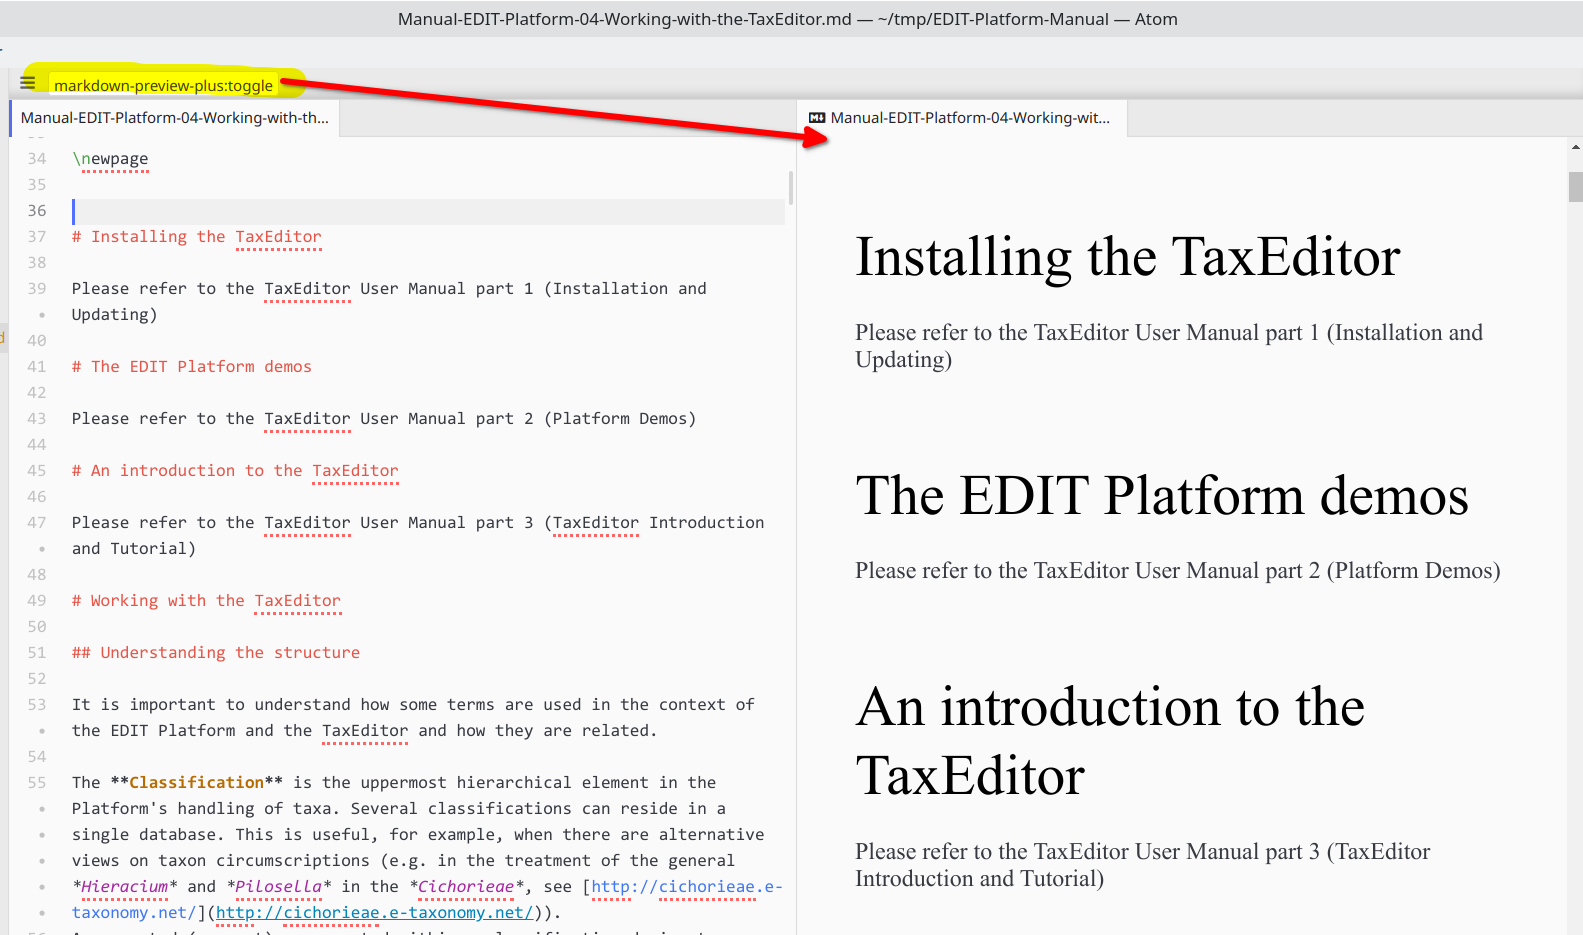
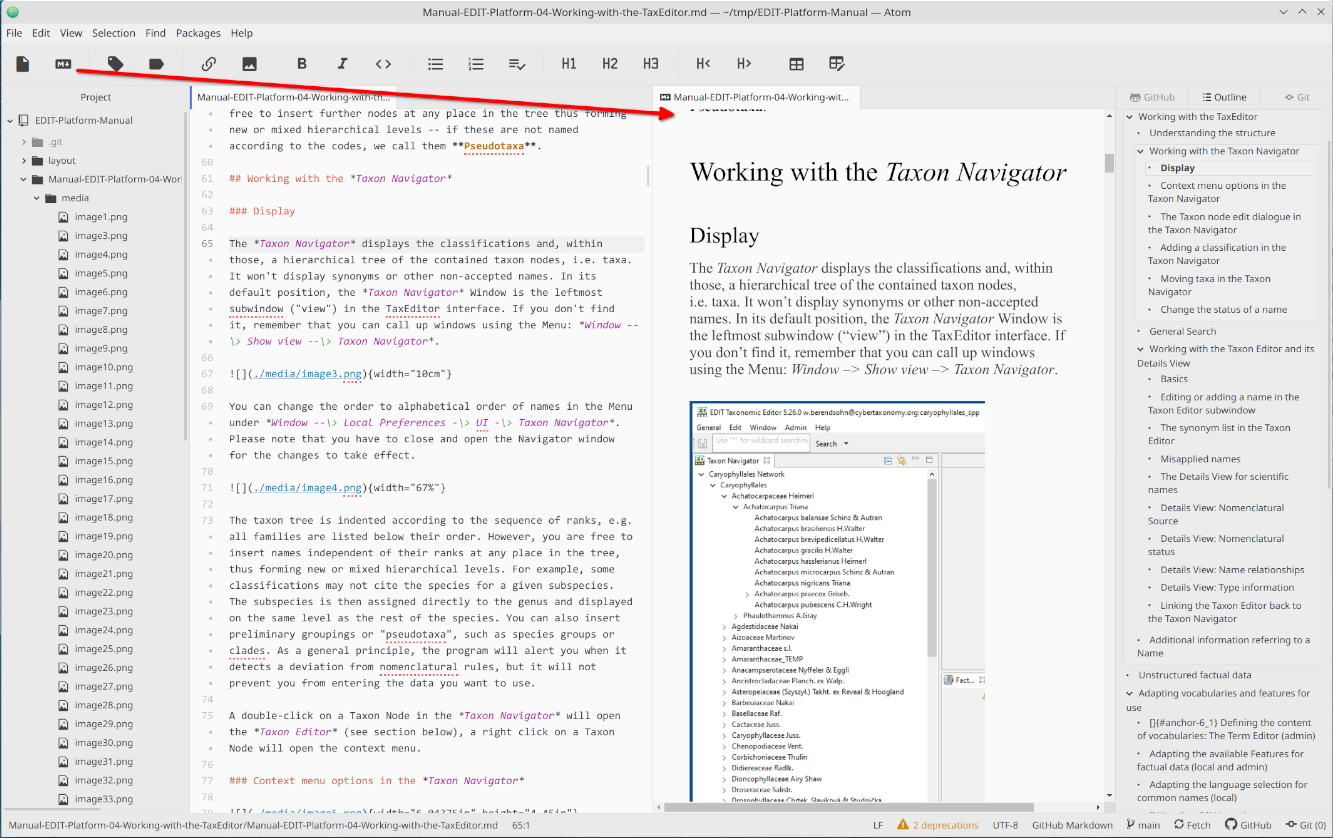
doc on the markdown-toolbar and preview

diff --git a/AUTHORING.md b/AUTHORING.md
@@ -121,7 +121,7 @@ Now you should be ready to get started with editing. All required plugins should
 
 #### 2. Clone the EDIT-Platform-Manual project
 
-**Prequisite:** You need a GitHub account. In case you don't habe an Accoujnt at GitHub yet, it is time to sign [up now](https://github.com/signup): 
+**Prequisite:** You need a GitHub account. In case you don't habe an Accoujnt at GitHub yet, it is time to sign [up now](https://github.com/signup):
 
 Press `CTRL SHIFT 8` to open the GitHub tab and folow the insructions to enter the authentication token. **Note**: Once you are on the github page to "Authorize Atom GitHub package" you need to make shure **cybertaxonomy** is checked in the **Organization access** section!
 
@@ -143,9 +143,6 @@ You are ready to start editing now.
 
 #### 3. Editing pandoc markdown with Atom
 
-The individual manuals are in the subfolders prefixed with `Manual-EDIT-Platform-`. Open the manual folder you want to work on and double-click the markdown file (`*.md`). The file will open in the central editor.
-
-Open the the markdown preview for the file by cliking on the "markdown-preview-plus:toggle" button in the  command toolbar above the editor, or use the command pallete `CTRL SHIFT P` > "markdown-preview":
+The individual manuals are in the subfolders prefixed with `Manual-EDIT-Platform-`. Open the manual folder you want to work on and double-click the markdown file (`*.md`). The file will open in the central editor and a set of buttons for working with markdown documents show up in the toolbar. Clicking the "Markdown preview" button (as shown in the screenshot below) will toggle the preview, to the right of the editor (alteratively you can use the command palette: `CTRL SHIFT P` > "markdown-preview")
 
 ![](./media/atom-open-markdown-preview.png)
-
